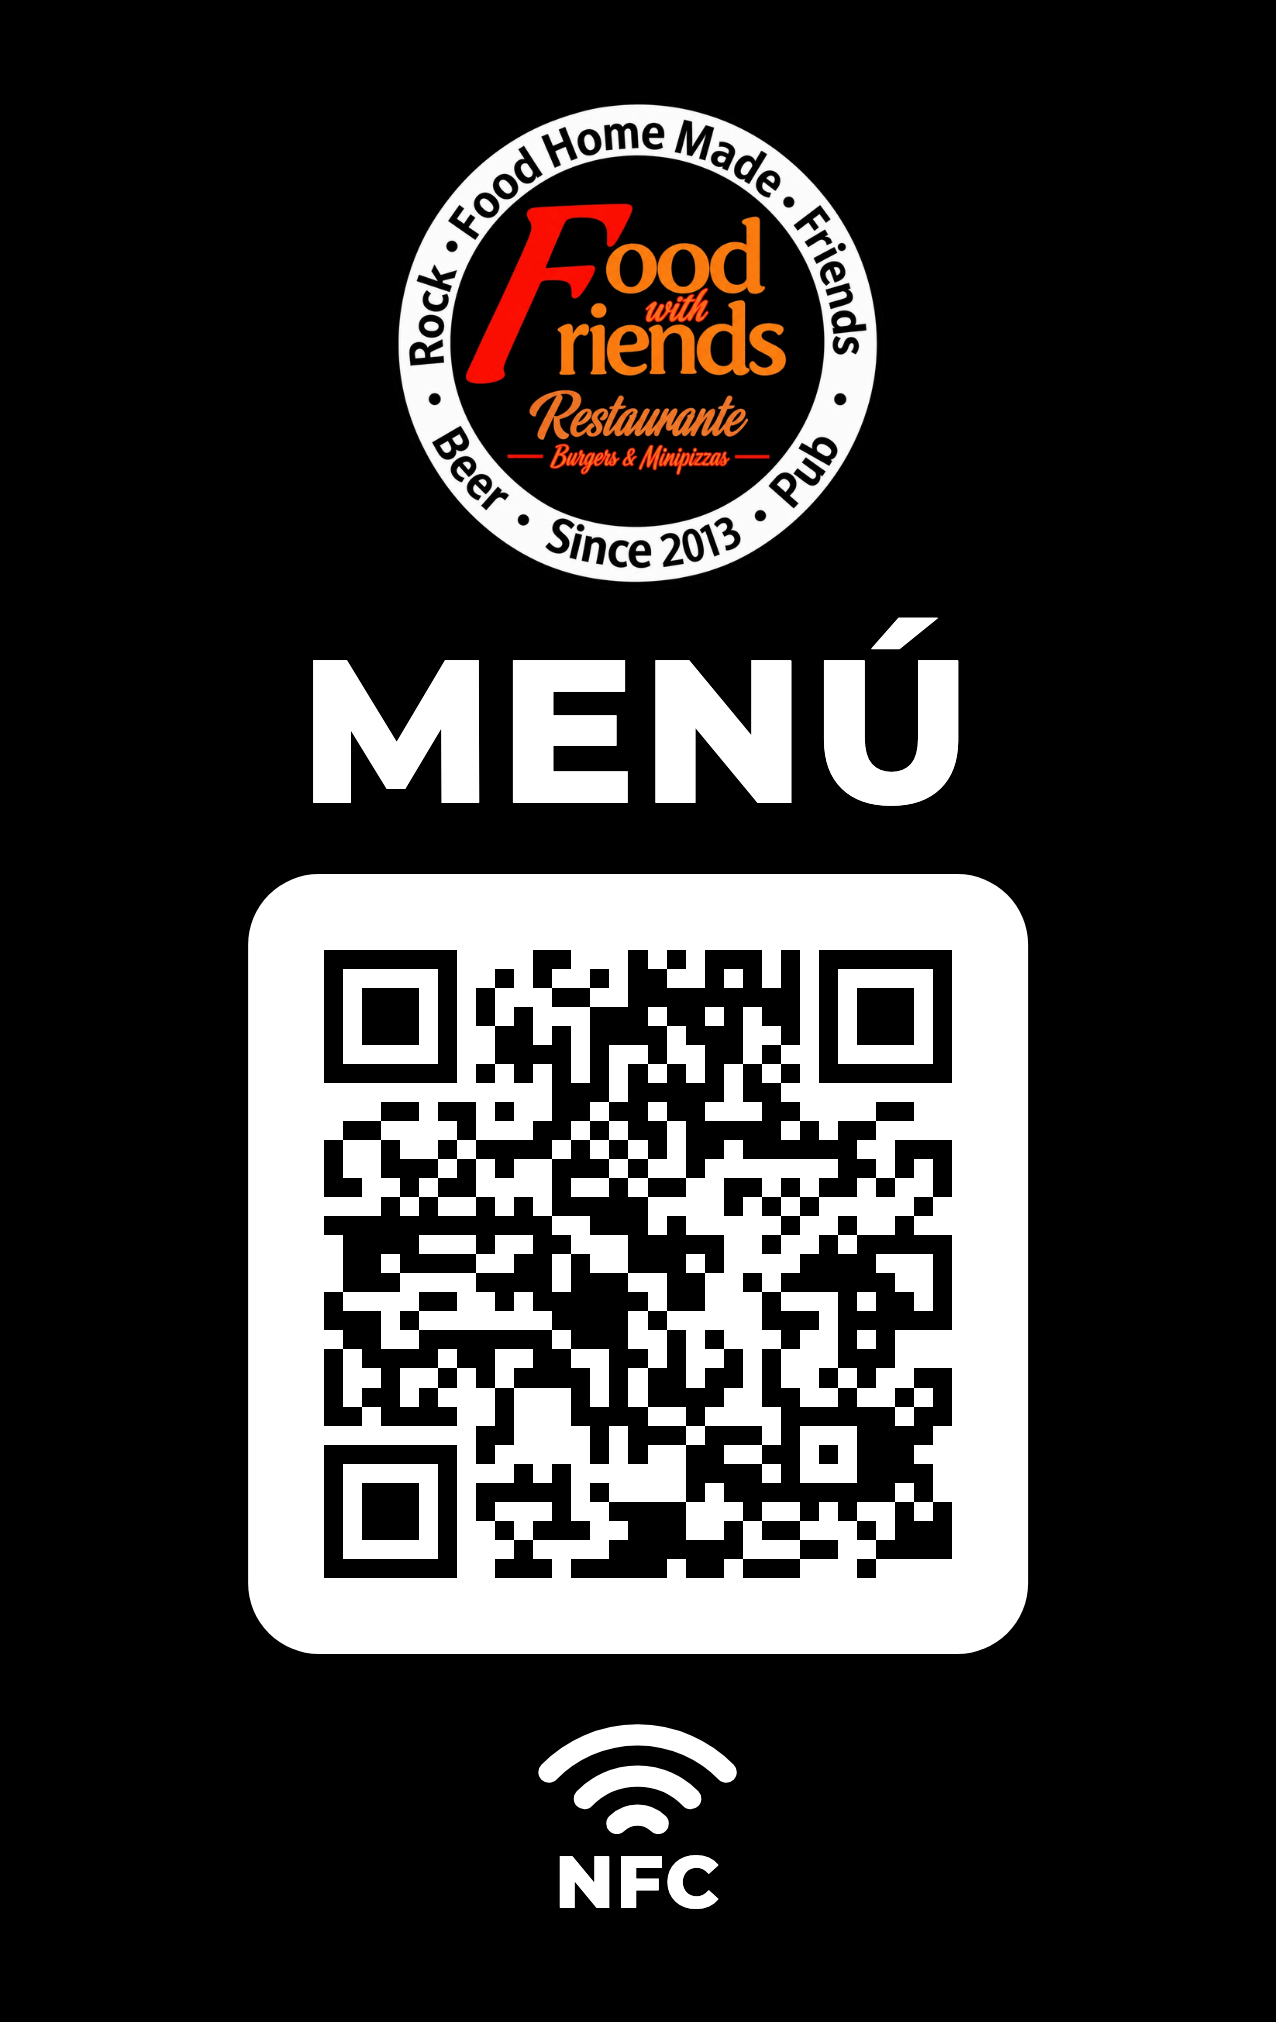
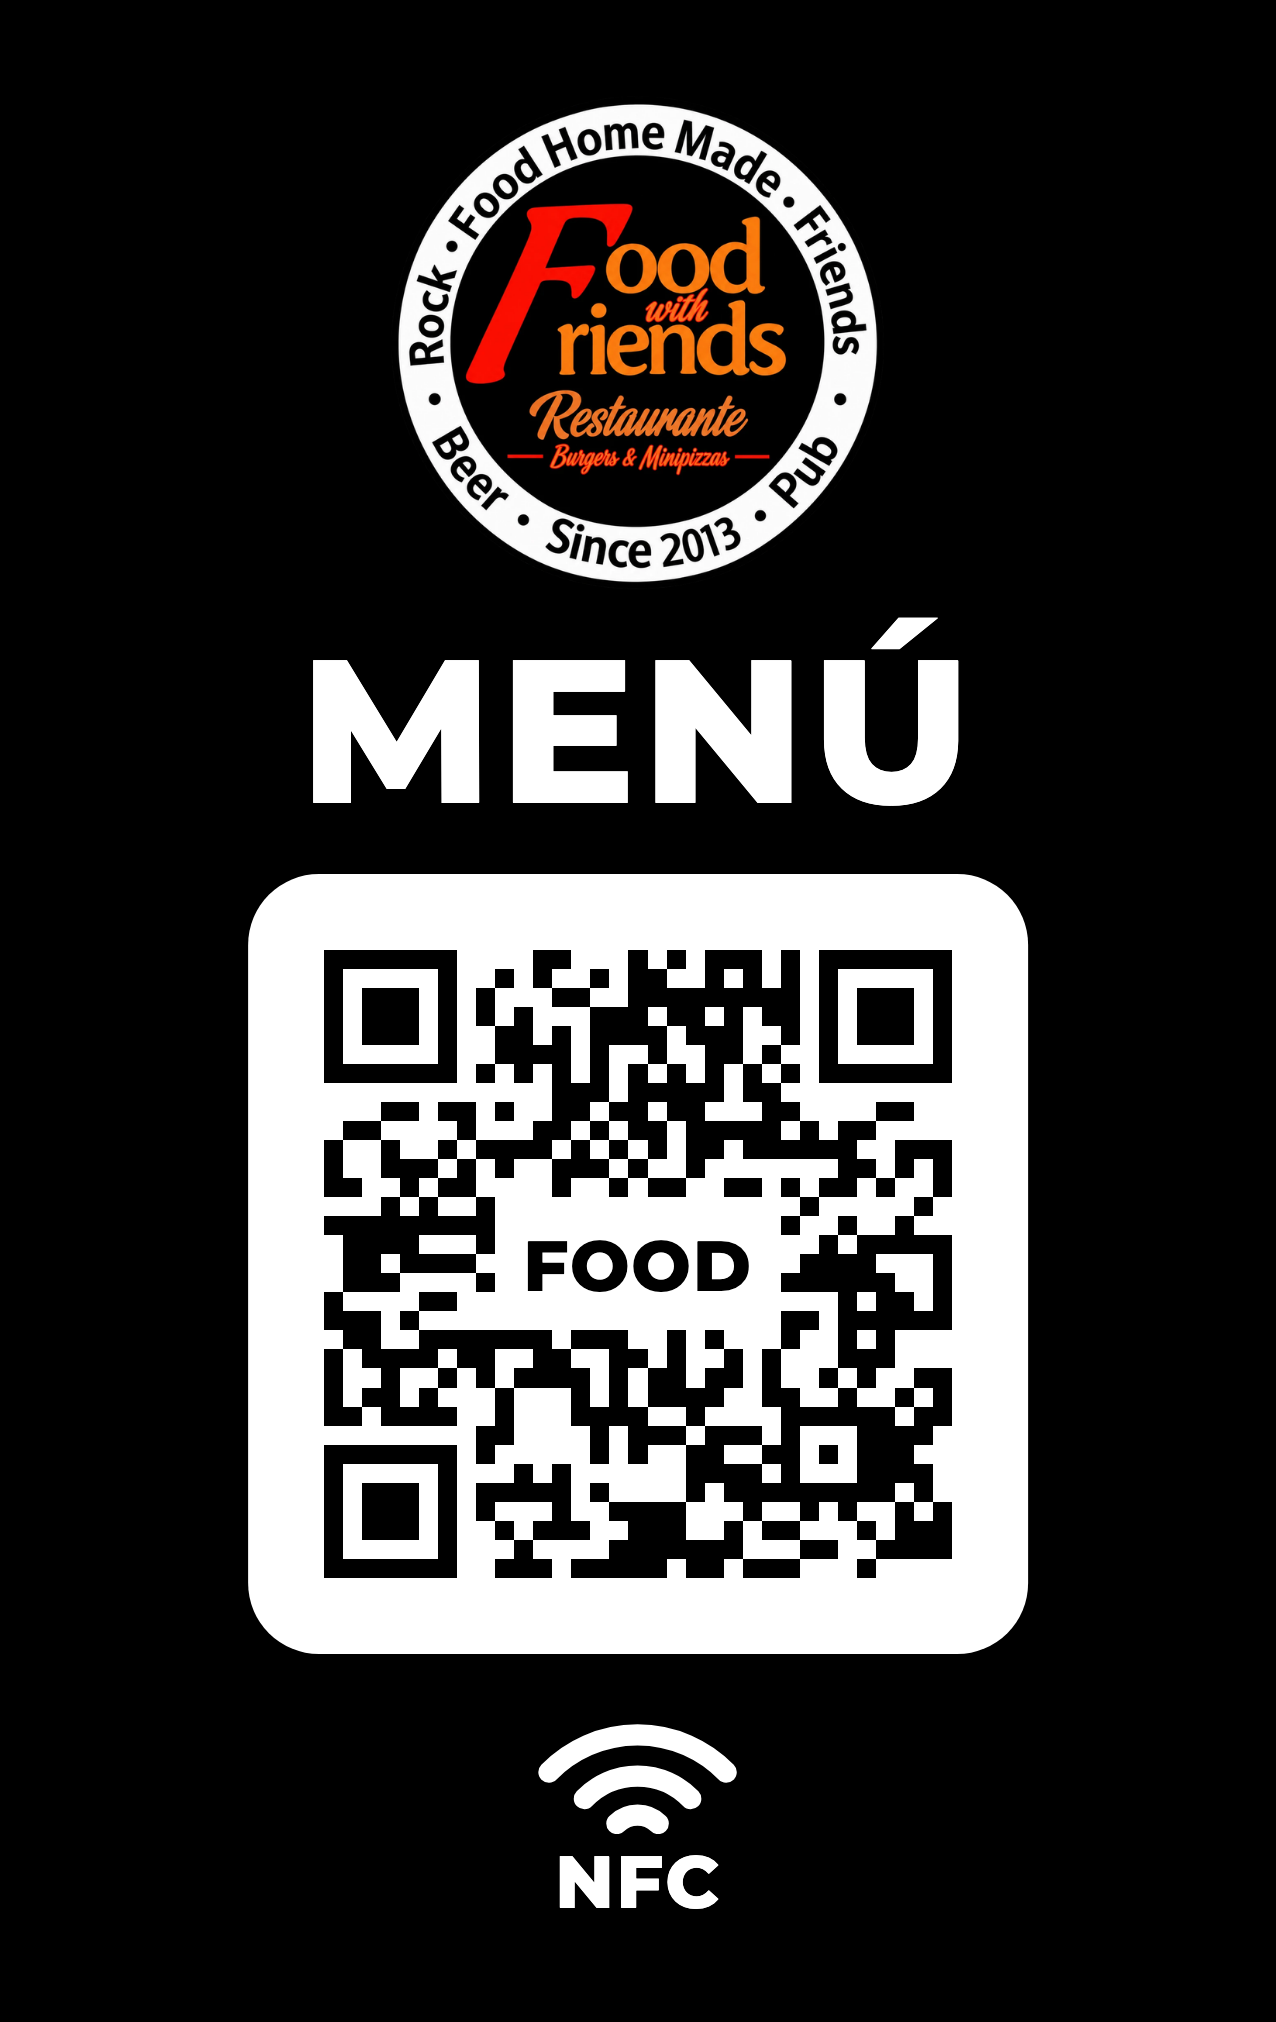
Tarjeta: FOOD en el centro del QR, igual que el sticker

Changed region(s): [[0.3668, 0.592, 0.6113, 0.6855]]

diff --git a/qr/tarjeta.html b/qr/tarjeta.html
@@ -34,8 +34,9 @@
 <div class="tarjeta">
   <img class="logo" src="../logo.png" alt="Food and Friends">
   <div class="titulo">MENÚ</div>
-  <!-- QR de https://foodandfriends.github.io/ (corrección de errores H), con su margen blanco de 4 cuadritos -->
-  <div class="qr"><svg viewBox="0 0 41 41" shape-rendering="crispEdges"><path fill="#000" d="M4 4h1v1h-1zM5 4h1v1h-1zM6 4h1v1h-1zM7 4h1v1h-1zM8 4h1v1h-1zM9 4h1v1h-1zM10 4h1v1h-1zM15 4h1v1h-1zM16 4h1v1h-1zM20 4h1v1h-1zM22 4h1v1h-1zM24 4h1v1h-1zM25 4h1v1h-1zM26 4h1v1h-1zM28 4h1v1h-1zM30 4h1v1h-1zM31 4h1v1h-1zM32 4h1v1h-1zM33 4h1v1h-1zM34 4h1v1h-1zM35 4h1v1h-1zM36 4h1v1h-1zM4 5h1v1h-1zM10 5h1v1h-1zM13 5h1v1h-1zM15 5h1v1h-1zM18 5h1v1h-1zM20 5h1v1h-1zM21 5h1v1h-1zM24 5h1v1h-1zM26 5h1v1h-1zM28 5h1v1h-1zM30 5h1v1h-1zM36 5h1v1h-1zM4 6h1v1h-1zM6 6h1v1h-1zM7 6h1v1h-1zM8 6h1v1h-1zM10 6h1v1h-1zM12 6h1v1h-1zM16 6h1v1h-1zM17 6h1v1h-1zM20 6h1v1h-1zM21 6h1v1h-1zM22 6h1v1h-1zM23 6h1v1h-1zM24 6h1v1h-1zM25 6h1v1h-1zM26 6h1v1h-1zM27 6h1v1h-1zM28 6h1v1h-1zM30 6h1v1h-1zM32 6h1v1h-1zM33 6h1v1h-1zM34 6h1v1h-1zM36 6h1v1h-1zM4 7h1v1h-1zM6 7h1v1h-1zM7 7h1v1h-1zM8 7h1v1h-1zM10 7h1v1h-1zM12 7h1v1h-1zM14 7h1v1h-1zM18 7h1v1h-1zM19 7h1v1h-1zM20 7h1v1h-1zM22 7h1v1h-1zM23 7h1v1h-1zM25 7h1v1h-1zM27 7h1v1h-1zM28 7h1v1h-1zM30 7h1v1h-1zM32 7h1v1h-1zM33 7h1v1h-1zM34 7h1v1h-1zM36 7h1v1h-1zM4 8h1v1h-1zM6 8h1v1h-1zM7 8h1v1h-1zM8 8h1v1h-1zM10 8h1v1h-1zM13 8h1v1h-1zM14 8h1v1h-1zM16 8h1v1h-1zM18 8h1v1h-1zM19 8h1v1h-1zM20 8h1v1h-1zM21 8h1v1h-1zM23 8h1v1h-1zM24 8h1v1h-1zM25 8h1v1h-1zM28 8h1v1h-1zM30 8h1v1h-1zM32 8h1v1h-1zM33 8h1v1h-1zM34 8h1v1h-1zM36 8h1v1h-1zM4 9h1v1h-1zM10 9h1v1h-1zM13 9h1v1h-1zM14 9h1v1h-1zM15 9h1v1h-1zM16 9h1v1h-1zM18 9h1v1h-1zM21 9h1v1h-1zM24 9h1v1h-1zM25 9h1v1h-1zM27 9h1v1h-1zM30 9h1v1h-1zM36 9h1v1h-1zM4 10h1v1h-1zM5 10h1v1h-1zM6 10h1v1h-1zM7 10h1v1h-1zM8 10h1v1h-1zM9 10h1v1h-1zM10 10h1v1h-1zM12 10h1v1h-1zM14 10h1v1h-1zM16 10h1v1h-1zM18 10h1v1h-1zM20 10h1v1h-1zM22 10h1v1h-1zM24 10h1v1h-1zM26 10h1v1h-1zM28 10h1v1h-1zM30 10h1v1h-1zM31 10h1v1h-1zM32 10h1v1h-1zM33 10h1v1h-1zM34 10h1v1h-1zM35 10h1v1h-1zM36 10h1v1h-1zM16 11h1v1h-1zM17 11h1v1h-1zM18 11h1v1h-1zM20 11h1v1h-1zM21 11h1v1h-1zM22 11h1v1h-1zM23 11h1v1h-1zM24 11h1v1h-1zM26 11h1v1h-1zM27 11h1v1h-1zM7 12h1v1h-1zM8 12h1v1h-1zM10 12h1v1h-1zM11 12h1v1h-1zM13 12h1v1h-1zM16 12h1v1h-1zM17 12h1v1h-1zM19 12h1v1h-1zM20 12h1v1h-1zM22 12h1v1h-1zM23 12h1v1h-1zM27 12h1v1h-1zM28 12h1v1h-1zM33 12h1v1h-1zM34 12h1v1h-1zM5 13h1v1h-1zM6 13h1v1h-1zM11 13h1v1h-1zM15 13h1v1h-1zM16 13h1v1h-1zM18 13h1v1h-1zM20 13h1v1h-1zM21 13h1v1h-1zM23 13h1v1h-1zM24 13h1v1h-1zM25 13h1v1h-1zM26 13h1v1h-1zM27 13h1v1h-1zM29 13h1v1h-1zM31 13h1v1h-1zM32 13h1v1h-1zM4 14h1v1h-1zM7 14h1v1h-1zM10 14h1v1h-1zM12 14h1v1h-1zM13 14h1v1h-1zM14 14h1v1h-1zM15 14h1v1h-1zM17 14h1v1h-1zM19 14h1v1h-1zM21 14h1v1h-1zM23 14h1v1h-1zM24 14h1v1h-1zM26 14h1v1h-1zM27 14h1v1h-1zM28 14h1v1h-1zM29 14h1v1h-1zM30 14h1v1h-1zM31 14h1v1h-1zM34 14h1v1h-1zM35 14h1v1h-1zM36 14h1v1h-1zM4 15h1v1h-1zM7 15h1v1h-1zM8 15h1v1h-1zM9 15h1v1h-1zM11 15h1v1h-1zM13 15h1v1h-1zM16 15h1v1h-1zM17 15h1v1h-1zM18 15h1v1h-1zM20 15h1v1h-1zM23 15h1v1h-1zM31 15h1v1h-1zM32 15h1v1h-1zM34 15h1v1h-1zM36 15h1v1h-1zM4 16h1v1h-1zM5 16h1v1h-1zM8 16h1v1h-1zM10 16h1v1h-1zM11 16h1v1h-1zM16 16h1v1h-1zM19 16h1v1h-1zM21 16h1v1h-1zM22 16h1v1h-1zM25 16h1v1h-1zM26 16h1v1h-1zM28 16h1v1h-1zM30 16h1v1h-1zM31 16h1v1h-1zM33 16h1v1h-1zM36 16h1v1h-1zM7 17h1v1h-1zM9 17h1v1h-1zM12 17h1v1h-1zM14 17h1v1h-1zM16 17h1v1h-1zM17 17h1v1h-1zM18 17h1v1h-1zM19 17h1v1h-1zM20 17h1v1h-1zM25 17h1v1h-1zM27 17h1v1h-1zM29 17h1v1h-1zM35 17h1v1h-1zM4 18h1v1h-1zM5 18h1v1h-1zM6 18h1v1h-1zM7 18h1v1h-1zM8 18h1v1h-1zM9 18h1v1h-1zM10 18h1v1h-1zM11 18h1v1h-1zM12 18h1v1h-1zM13 18h1v1h-1zM14 18h1v1h-1zM15 18h1v1h-1zM18 18h1v1h-1zM19 18h1v1h-1zM20 18h1v1h-1zM22 18h1v1h-1zM28 18h1v1h-1zM31 18h1v1h-1zM34 18h1v1h-1zM5 19h1v1h-1zM6 19h1v1h-1zM7 19h1v1h-1zM8 19h1v1h-1zM12 19h1v1h-1zM15 19h1v1h-1zM16 19h1v1h-1zM20 19h1v1h-1zM21 19h1v1h-1zM22 19h1v1h-1zM23 19h1v1h-1zM24 19h1v1h-1zM27 19h1v1h-1zM30 19h1v1h-1zM32 19h1v1h-1zM33 19h1v1h-1zM34 19h1v1h-1zM35 19h1v1h-1zM36 19h1v1h-1zM5 20h1v1h-1zM6 20h1v1h-1zM8 20h1v1h-1zM9 20h1v1h-1zM10 20h1v1h-1zM11 20h1v1h-1zM14 20h1v1h-1zM15 20h1v1h-1zM17 20h1v1h-1zM20 20h1v1h-1zM21 20h1v1h-1zM22 20h1v1h-1zM24 20h1v1h-1zM29 20h1v1h-1zM30 20h1v1h-1zM31 20h1v1h-1zM32 20h1v1h-1zM36 20h1v1h-1zM5 21h1v1h-1zM6 21h1v1h-1zM7 21h1v1h-1zM12 21h1v1h-1zM13 21h1v1h-1zM14 21h1v1h-1zM15 21h1v1h-1zM17 21h1v1h-1zM18 21h1v1h-1zM19 21h1v1h-1zM22 21h1v1h-1zM23 21h1v1h-1zM26 21h1v1h-1zM28 21h1v1h-1zM29 21h1v1h-1zM30 21h1v1h-1zM31 21h1v1h-1zM32 21h1v1h-1zM33 21h1v1h-1zM36 21h1v1h-1zM4 22h1v1h-1zM9 22h1v1h-1zM10 22h1v1h-1zM13 22h1v1h-1zM15 22h1v1h-1zM16 22h1v1h-1zM17 22h1v1h-1zM18 22h1v1h-1zM19 22h1v1h-1zM20 22h1v1h-1zM22 22h1v1h-1zM23 22h1v1h-1zM27 22h1v1h-1zM31 22h1v1h-1zM33 22h1v1h-1zM34 22h1v1h-1zM36 22h1v1h-1zM4 23h1v1h-1zM5 23h1v1h-1zM6 23h1v1h-1zM8 23h1v1h-1zM16 23h1v1h-1zM17 23h1v1h-1zM18 23h1v1h-1zM19 23h1v1h-1zM21 23h1v1h-1zM27 23h1v1h-1zM28 23h1v1h-1zM29 23h1v1h-1zM31 23h1v1h-1zM32 23h1v1h-1zM33 23h1v1h-1zM34 23h1v1h-1zM35 23h1v1h-1zM36 23h1v1h-1zM5 24h1v1h-1zM6 24h1v1h-1zM9 24h1v1h-1zM10 24h1v1h-1zM11 24h1v1h-1zM12 24h1v1h-1zM13 24h1v1h-1zM14 24h1v1h-1zM15 24h1v1h-1zM17 24h1v1h-1zM18 24h1v1h-1zM19 24h1v1h-1zM22 24h1v1h-1zM24 24h1v1h-1zM28 24h1v1h-1zM31 24h1v1h-1zM33 24h1v1h-1zM4 25h1v1h-1zM6 25h1v1h-1zM7 25h1v1h-1zM8 25h1v1h-1zM9 25h1v1h-1zM11 25h1v1h-1zM12 25h1v1h-1zM15 25h1v1h-1zM16 25h1v1h-1zM19 25h1v1h-1zM20 25h1v1h-1zM22 25h1v1h-1zM25 25h1v1h-1zM27 25h1v1h-1zM31 25h1v1h-1zM32 25h1v1h-1zM33 25h1v1h-1zM4 26h1v1h-1zM7 26h1v1h-1zM10 26h1v1h-1zM12 26h1v1h-1zM14 26h1v1h-1zM15 26h1v1h-1zM16 26h1v1h-1zM17 26h1v1h-1zM19 26h1v1h-1zM21 26h1v1h-1zM22 26h1v1h-1zM24 26h1v1h-1zM25 26h1v1h-1zM27 26h1v1h-1zM30 26h1v1h-1zM32 26h1v1h-1zM35 26h1v1h-1zM36 26h1v1h-1zM4 27h1v1h-1zM6 27h1v1h-1zM7 27h1v1h-1zM9 27h1v1h-1zM13 27h1v1h-1zM17 27h1v1h-1zM19 27h1v1h-1zM21 27h1v1h-1zM22 27h1v1h-1zM23 27h1v1h-1zM24 27h1v1h-1zM27 27h1v1h-1zM28 27h1v1h-1zM31 27h1v1h-1zM34 27h1v1h-1zM36 27h1v1h-1zM4 28h1v1h-1zM5 28h1v1h-1zM7 28h1v1h-1zM8 28h1v1h-1zM9 28h1v1h-1zM10 28h1v1h-1zM13 28h1v1h-1zM17 28h1v1h-1zM18 28h1v1h-1zM19 28h1v1h-1zM20 28h1v1h-1zM23 28h1v1h-1zM28 28h1v1h-1zM29 28h1v1h-1zM30 28h1v1h-1zM31 28h1v1h-1zM32 28h1v1h-1zM33 28h1v1h-1zM35 28h1v1h-1zM36 28h1v1h-1zM12 29h1v1h-1zM13 29h1v1h-1zM18 29h1v1h-1zM20 29h1v1h-1zM21 29h1v1h-1zM22 29h1v1h-1zM24 29h1v1h-1zM25 29h1v1h-1zM26 29h1v1h-1zM28 29h1v1h-1zM32 29h1v1h-1zM33 29h1v1h-1zM34 29h1v1h-1zM35 29h1v1h-1zM4 30h1v1h-1zM5 30h1v1h-1zM6 30h1v1h-1zM7 30h1v1h-1zM8 30h1v1h-1zM9 30h1v1h-1zM10 30h1v1h-1zM12 30h1v1h-1zM18 30h1v1h-1zM20 30h1v1h-1zM23 30h1v1h-1zM24 30h1v1h-1zM27 30h1v1h-1zM28 30h1v1h-1zM30 30h1v1h-1zM32 30h1v1h-1zM33 30h1v1h-1zM34 30h1v1h-1zM4 31h1v1h-1zM10 31h1v1h-1zM14 31h1v1h-1zM16 31h1v1h-1zM23 31h1v1h-1zM24 31h1v1h-1zM25 31h1v1h-1zM26 31h1v1h-1zM28 31h1v1h-1zM32 31h1v1h-1zM33 31h1v1h-1zM34 31h1v1h-1zM35 31h1v1h-1zM4 32h1v1h-1zM6 32h1v1h-1zM7 32h1v1h-1zM8 32h1v1h-1zM10 32h1v1h-1zM12 32h1v1h-1zM13 32h1v1h-1zM14 32h1v1h-1zM15 32h1v1h-1zM16 32h1v1h-1zM18 32h1v1h-1zM23 32h1v1h-1zM25 32h1v1h-1zM26 32h1v1h-1zM27 32h1v1h-1zM28 32h1v1h-1zM29 32h1v1h-1zM30 32h1v1h-1zM31 32h1v1h-1zM32 32h1v1h-1zM33 32h1v1h-1zM35 32h1v1h-1zM4 33h1v1h-1zM6 33h1v1h-1zM7 33h1v1h-1zM8 33h1v1h-1zM10 33h1v1h-1zM12 33h1v1h-1zM16 33h1v1h-1zM19 33h1v1h-1zM20 33h1v1h-1zM21 33h1v1h-1zM22 33h1v1h-1zM26 33h1v1h-1zM29 33h1v1h-1zM31 33h1v1h-1zM34 33h1v1h-1zM36 33h1v1h-1zM4 34h1v1h-1zM6 34h1v1h-1zM7 34h1v1h-1zM8 34h1v1h-1zM10 34h1v1h-1zM13 34h1v1h-1zM15 34h1v1h-1zM16 34h1v1h-1zM17 34h1v1h-1zM20 34h1v1h-1zM21 34h1v1h-1zM22 34h1v1h-1zM25 34h1v1h-1zM27 34h1v1h-1zM28 34h1v1h-1zM32 34h1v1h-1zM34 34h1v1h-1zM35 34h1v1h-1zM36 34h1v1h-1zM4 35h1v1h-1zM10 35h1v1h-1zM14 35h1v1h-1zM19 35h1v1h-1zM20 35h1v1h-1zM21 35h1v1h-1zM22 35h1v1h-1zM23 35h1v1h-1zM24 35h1v1h-1zM25 35h1v1h-1zM29 35h1v1h-1zM30 35h1v1h-1zM33 35h1v1h-1zM34 35h1v1h-1zM35 35h1v1h-1zM36 35h1v1h-1zM4 36h1v1h-1zM5 36h1v1h-1zM6 36h1v1h-1zM7 36h1v1h-1zM8 36h1v1h-1zM9 36h1v1h-1zM10 36h1v1h-1zM13 36h1v1h-1zM14 36h1v1h-1zM15 36h1v1h-1zM17 36h1v1h-1zM18 36h1v1h-1zM19 36h1v1h-1zM20 36h1v1h-1zM21 36h1v1h-1zM23 36h1v1h-1zM24 36h1v1h-1zM26 36h1v1h-1zM27 36h1v1h-1zM28 36h1v1h-1zM32 36h1v1h-1z"/></svg></div>
+  <!-- QR de https://foodandfriends.github.io/ (corrección de errores H), con su margen blanco de 4 cuadritos y FOOD en el centro
+       (se quitan los 15 x 7 cuadritos del medio: el 10 %; la corrección H aguanta cerca del 30 %) -->
+  <div class="qr"><svg viewBox="0 0 41 41"><path shape-rendering="crispEdges" fill="#000" d="M4 4h1v1h-1zM5 4h1v1h-1zM6 4h1v1h-1zM7 4h1v1h-1zM8 4h1v1h-1zM9 4h1v1h-1zM10 4h1v1h-1zM15 4h1v1h-1zM16 4h1v1h-1zM20 4h1v1h-1zM22 4h1v1h-1zM24 4h1v1h-1zM25 4h1v1h-1zM26 4h1v1h-1zM28 4h1v1h-1zM30 4h1v1h-1zM31 4h1v1h-1zM32 4h1v1h-1zM33 4h1v1h-1zM34 4h1v1h-1zM35 4h1v1h-1zM36 4h1v1h-1zM4 5h1v1h-1zM10 5h1v1h-1zM13 5h1v1h-1zM15 5h1v1h-1zM18 5h1v1h-1zM20 5h1v1h-1zM21 5h1v1h-1zM24 5h1v1h-1zM26 5h1v1h-1zM28 5h1v1h-1zM30 5h1v1h-1zM36 5h1v1h-1zM4 6h1v1h-1zM6 6h1v1h-1zM7 6h1v1h-1zM8 6h1v1h-1zM10 6h1v1h-1zM12 6h1v1h-1zM16 6h1v1h-1zM17 6h1v1h-1zM20 6h1v1h-1zM21 6h1v1h-1zM22 6h1v1h-1zM23 6h1v1h-1zM24 6h1v1h-1zM25 6h1v1h-1zM26 6h1v1h-1zM27 6h1v1h-1zM28 6h1v1h-1zM30 6h1v1h-1zM32 6h1v1h-1zM33 6h1v1h-1zM34 6h1v1h-1zM36 6h1v1h-1zM4 7h1v1h-1zM6 7h1v1h-1zM7 7h1v1h-1zM8 7h1v1h-1zM10 7h1v1h-1zM12 7h1v1h-1zM14 7h1v1h-1zM18 7h1v1h-1zM19 7h1v1h-1zM20 7h1v1h-1zM22 7h1v1h-1zM23 7h1v1h-1zM25 7h1v1h-1zM27 7h1v1h-1zM28 7h1v1h-1zM30 7h1v1h-1zM32 7h1v1h-1zM33 7h1v1h-1zM34 7h1v1h-1zM36 7h1v1h-1zM4 8h1v1h-1zM6 8h1v1h-1zM7 8h1v1h-1zM8 8h1v1h-1zM10 8h1v1h-1zM13 8h1v1h-1zM14 8h1v1h-1zM16 8h1v1h-1zM18 8h1v1h-1zM19 8h1v1h-1zM20 8h1v1h-1zM21 8h1v1h-1zM23 8h1v1h-1zM24 8h1v1h-1zM25 8h1v1h-1zM28 8h1v1h-1zM30 8h1v1h-1zM32 8h1v1h-1zM33 8h1v1h-1zM34 8h1v1h-1zM36 8h1v1h-1zM4 9h1v1h-1zM10 9h1v1h-1zM13 9h1v1h-1zM14 9h1v1h-1zM15 9h1v1h-1zM16 9h1v1h-1zM18 9h1v1h-1zM21 9h1v1h-1zM24 9h1v1h-1zM25 9h1v1h-1zM27 9h1v1h-1zM30 9h1v1h-1zM36 9h1v1h-1zM4 10h1v1h-1zM5 10h1v1h-1zM6 10h1v1h-1zM7 10h1v1h-1zM8 10h1v1h-1zM9 10h1v1h-1zM10 10h1v1h-1zM12 10h1v1h-1zM14 10h1v1h-1zM16 10h1v1h-1zM18 10h1v1h-1zM20 10h1v1h-1zM22 10h1v1h-1zM24 10h1v1h-1zM26 10h1v1h-1zM28 10h1v1h-1zM30 10h1v1h-1zM31 10h1v1h-1zM32 10h1v1h-1zM33 10h1v1h-1zM34 10h1v1h-1zM35 10h1v1h-1zM36 10h1v1h-1zM16 11h1v1h-1zM17 11h1v1h-1zM18 11h1v1h-1zM20 11h1v1h-1zM21 11h1v1h-1zM22 11h1v1h-1zM23 11h1v1h-1zM24 11h1v1h-1zM26 11h1v1h-1zM27 11h1v1h-1zM7 12h1v1h-1zM8 12h1v1h-1zM10 12h1v1h-1zM11 12h1v1h-1zM13 12h1v1h-1zM16 12h1v1h-1zM17 12h1v1h-1zM19 12h1v1h-1zM20 12h1v1h-1zM22 12h1v1h-1zM23 12h1v1h-1zM27 12h1v1h-1zM28 12h1v1h-1zM33 12h1v1h-1zM34 12h1v1h-1zM5 13h1v1h-1zM6 13h1v1h-1zM11 13h1v1h-1zM15 13h1v1h-1zM16 13h1v1h-1zM18 13h1v1h-1zM20 13h1v1h-1zM21 13h1v1h-1zM23 13h1v1h-1zM24 13h1v1h-1zM25 13h1v1h-1zM26 13h1v1h-1zM27 13h1v1h-1zM29 13h1v1h-1zM31 13h1v1h-1zM32 13h1v1h-1zM4 14h1v1h-1zM7 14h1v1h-1zM10 14h1v1h-1zM12 14h1v1h-1zM13 14h1v1h-1zM14 14h1v1h-1zM15 14h1v1h-1zM17 14h1v1h-1zM19 14h1v1h-1zM21 14h1v1h-1zM23 14h1v1h-1zM24 14h1v1h-1zM26 14h1v1h-1zM27 14h1v1h-1zM28 14h1v1h-1zM29 14h1v1h-1zM30 14h1v1h-1zM31 14h1v1h-1zM34 14h1v1h-1zM35 14h1v1h-1zM36 14h1v1h-1zM4 15h1v1h-1zM7 15h1v1h-1zM8 15h1v1h-1zM9 15h1v1h-1zM11 15h1v1h-1zM13 15h1v1h-1zM16 15h1v1h-1zM17 15h1v1h-1zM18 15h1v1h-1zM20 15h1v1h-1zM23 15h1v1h-1zM31 15h1v1h-1zM32 15h1v1h-1zM34 15h1v1h-1zM36 15h1v1h-1zM4 16h1v1h-1zM5 16h1v1h-1zM8 16h1v1h-1zM10 16h1v1h-1zM11 16h1v1h-1zM16 16h1v1h-1zM19 16h1v1h-1zM21 16h1v1h-1zM22 16h1v1h-1zM25 16h1v1h-1zM26 16h1v1h-1zM28 16h1v1h-1zM30 16h1v1h-1zM31 16h1v1h-1zM33 16h1v1h-1zM36 16h1v1h-1zM7 17h1v1h-1zM9 17h1v1h-1zM12 17h1v1h-1zM29 17h1v1h-1zM35 17h1v1h-1zM4 18h1v1h-1zM5 18h1v1h-1zM6 18h1v1h-1zM7 18h1v1h-1zM8 18h1v1h-1zM9 18h1v1h-1zM10 18h1v1h-1zM11 18h1v1h-1zM12 18h1v1h-1zM28 18h1v1h-1zM31 18h1v1h-1zM34 18h1v1h-1zM5 19h1v1h-1zM6 19h1v1h-1zM7 19h1v1h-1zM8 19h1v1h-1zM12 19h1v1h-1zM30 19h1v1h-1zM32 19h1v1h-1zM33 19h1v1h-1zM34 19h1v1h-1zM35 19h1v1h-1zM36 19h1v1h-1zM5 20h1v1h-1zM6 20h1v1h-1zM8 20h1v1h-1zM9 20h1v1h-1zM10 20h1v1h-1zM11 20h1v1h-1zM29 20h1v1h-1zM30 20h1v1h-1zM31 20h1v1h-1zM32 20h1v1h-1zM36 20h1v1h-1zM5 21h1v1h-1zM6 21h1v1h-1zM7 21h1v1h-1zM12 21h1v1h-1zM28 21h1v1h-1zM29 21h1v1h-1zM30 21h1v1h-1zM31 21h1v1h-1zM32 21h1v1h-1zM33 21h1v1h-1zM36 21h1v1h-1zM4 22h1v1h-1zM9 22h1v1h-1zM10 22h1v1h-1zM31 22h1v1h-1zM33 22h1v1h-1zM34 22h1v1h-1zM36 22h1v1h-1zM4 23h1v1h-1zM5 23h1v1h-1zM6 23h1v1h-1zM8 23h1v1h-1zM28 23h1v1h-1zM29 23h1v1h-1zM31 23h1v1h-1zM32 23h1v1h-1zM33 23h1v1h-1zM34 23h1v1h-1zM35 23h1v1h-1zM36 23h1v1h-1zM5 24h1v1h-1zM6 24h1v1h-1zM9 24h1v1h-1zM10 24h1v1h-1zM11 24h1v1h-1zM12 24h1v1h-1zM13 24h1v1h-1zM14 24h1v1h-1zM15 24h1v1h-1zM17 24h1v1h-1zM18 24h1v1h-1zM19 24h1v1h-1zM22 24h1v1h-1zM24 24h1v1h-1zM28 24h1v1h-1zM31 24h1v1h-1zM33 24h1v1h-1zM4 25h1v1h-1zM6 25h1v1h-1zM7 25h1v1h-1zM8 25h1v1h-1zM9 25h1v1h-1zM11 25h1v1h-1zM12 25h1v1h-1zM15 25h1v1h-1zM16 25h1v1h-1zM19 25h1v1h-1zM20 25h1v1h-1zM22 25h1v1h-1zM25 25h1v1h-1zM27 25h1v1h-1zM31 25h1v1h-1zM32 25h1v1h-1zM33 25h1v1h-1zM4 26h1v1h-1zM7 26h1v1h-1zM10 26h1v1h-1zM12 26h1v1h-1zM14 26h1v1h-1zM15 26h1v1h-1zM16 26h1v1h-1zM17 26h1v1h-1zM19 26h1v1h-1zM21 26h1v1h-1zM22 26h1v1h-1zM24 26h1v1h-1zM25 26h1v1h-1zM27 26h1v1h-1zM30 26h1v1h-1zM32 26h1v1h-1zM35 26h1v1h-1zM36 26h1v1h-1zM4 27h1v1h-1zM6 27h1v1h-1zM7 27h1v1h-1zM9 27h1v1h-1zM13 27h1v1h-1zM17 27h1v1h-1zM19 27h1v1h-1zM21 27h1v1h-1zM22 27h1v1h-1zM23 27h1v1h-1zM24 27h1v1h-1zM27 27h1v1h-1zM28 27h1v1h-1zM31 27h1v1h-1zM34 27h1v1h-1zM36 27h1v1h-1zM4 28h1v1h-1zM5 28h1v1h-1zM7 28h1v1h-1zM8 28h1v1h-1zM9 28h1v1h-1zM10 28h1v1h-1zM13 28h1v1h-1zM17 28h1v1h-1zM18 28h1v1h-1zM19 28h1v1h-1zM20 28h1v1h-1zM23 28h1v1h-1zM28 28h1v1h-1zM29 28h1v1h-1zM30 28h1v1h-1zM31 28h1v1h-1zM32 28h1v1h-1zM33 28h1v1h-1zM35 28h1v1h-1zM36 28h1v1h-1zM12 29h1v1h-1zM13 29h1v1h-1zM18 29h1v1h-1zM20 29h1v1h-1zM21 29h1v1h-1zM22 29h1v1h-1zM24 29h1v1h-1zM25 29h1v1h-1zM26 29h1v1h-1zM28 29h1v1h-1zM32 29h1v1h-1zM33 29h1v1h-1zM34 29h1v1h-1zM35 29h1v1h-1zM4 30h1v1h-1zM5 30h1v1h-1zM6 30h1v1h-1zM7 30h1v1h-1zM8 30h1v1h-1zM9 30h1v1h-1zM10 30h1v1h-1zM12 30h1v1h-1zM18 30h1v1h-1zM20 30h1v1h-1zM23 30h1v1h-1zM24 30h1v1h-1zM27 30h1v1h-1zM28 30h1v1h-1zM30 30h1v1h-1zM32 30h1v1h-1zM33 30h1v1h-1zM34 30h1v1h-1zM4 31h1v1h-1zM10 31h1v1h-1zM14 31h1v1h-1zM16 31h1v1h-1zM23 31h1v1h-1zM24 31h1v1h-1zM25 31h1v1h-1zM26 31h1v1h-1zM28 31h1v1h-1zM32 31h1v1h-1zM33 31h1v1h-1zM34 31h1v1h-1zM35 31h1v1h-1zM4 32h1v1h-1zM6 32h1v1h-1zM7 32h1v1h-1zM8 32h1v1h-1zM10 32h1v1h-1zM12 32h1v1h-1zM13 32h1v1h-1zM14 32h1v1h-1zM15 32h1v1h-1zM16 32h1v1h-1zM18 32h1v1h-1zM23 32h1v1h-1zM25 32h1v1h-1zM26 32h1v1h-1zM27 32h1v1h-1zM28 32h1v1h-1zM29 32h1v1h-1zM30 32h1v1h-1zM31 32h1v1h-1zM32 32h1v1h-1zM33 32h1v1h-1zM35 32h1v1h-1zM4 33h1v1h-1zM6 33h1v1h-1zM7 33h1v1h-1zM8 33h1v1h-1zM10 33h1v1h-1zM12 33h1v1h-1zM16 33h1v1h-1zM19 33h1v1h-1zM20 33h1v1h-1zM21 33h1v1h-1zM22 33h1v1h-1zM26 33h1v1h-1zM29 33h1v1h-1zM31 33h1v1h-1zM34 33h1v1h-1zM36 33h1v1h-1zM4 34h1v1h-1zM6 34h1v1h-1zM7 34h1v1h-1zM8 34h1v1h-1zM10 34h1v1h-1zM13 34h1v1h-1zM15 34h1v1h-1zM16 34h1v1h-1zM17 34h1v1h-1zM20 34h1v1h-1zM21 34h1v1h-1zM22 34h1v1h-1zM25 34h1v1h-1zM27 34h1v1h-1zM28 34h1v1h-1zM32 34h1v1h-1zM34 34h1v1h-1zM35 34h1v1h-1zM36 34h1v1h-1zM4 35h1v1h-1zM10 35h1v1h-1zM14 35h1v1h-1zM19 35h1v1h-1zM20 35h1v1h-1zM21 35h1v1h-1zM22 35h1v1h-1zM23 35h1v1h-1zM24 35h1v1h-1zM25 35h1v1h-1zM29 35h1v1h-1zM30 35h1v1h-1zM33 35h1v1h-1zM34 35h1v1h-1zM35 35h1v1h-1zM36 35h1v1h-1zM4 36h1v1h-1zM5 36h1v1h-1zM6 36h1v1h-1zM7 36h1v1h-1zM8 36h1v1h-1zM9 36h1v1h-1zM10 36h1v1h-1zM13 36h1v1h-1zM14 36h1v1h-1zM15 36h1v1h-1zM17 36h1v1h-1zM18 36h1v1h-1zM19 36h1v1h-1zM20 36h1v1h-1zM21 36h1v1h-1zM23 36h1v1h-1zM24 36h1v1h-1zM26 36h1v1h-1zM27 36h1v1h-1zM28 36h1v1h-1zM32 36h1v1h-1z"/><text x="20.5" y="20.62" text-anchor="middle" dominant-baseline="central" font-family="Montserrat, Arial Black, sans-serif" font-weight="800" font-size="3.7" letter-spacing=".1" fill="#000">FOOD</text></svg></div>
   <div class="nfc">
     <svg viewBox="0 0 36 20" fill="none" stroke="#fff" stroke-width="3.6" stroke-linecap="round">
       <path d="M3 9.5a21 21 0 0 1 30 0"/><path d="M9 14a12.5 12.5 0 0 1 18 0"/><path d="M14.5 18.2a5 5 0 0 1 7 0"/>
